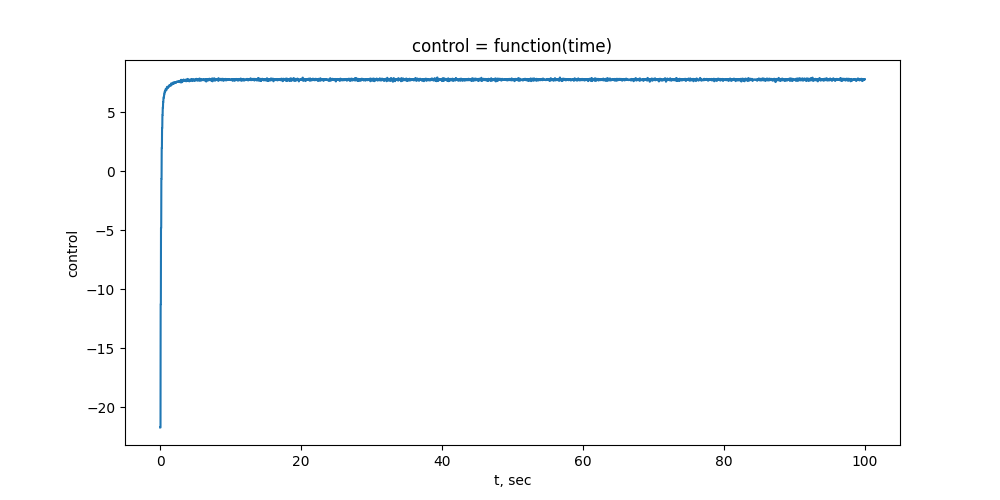
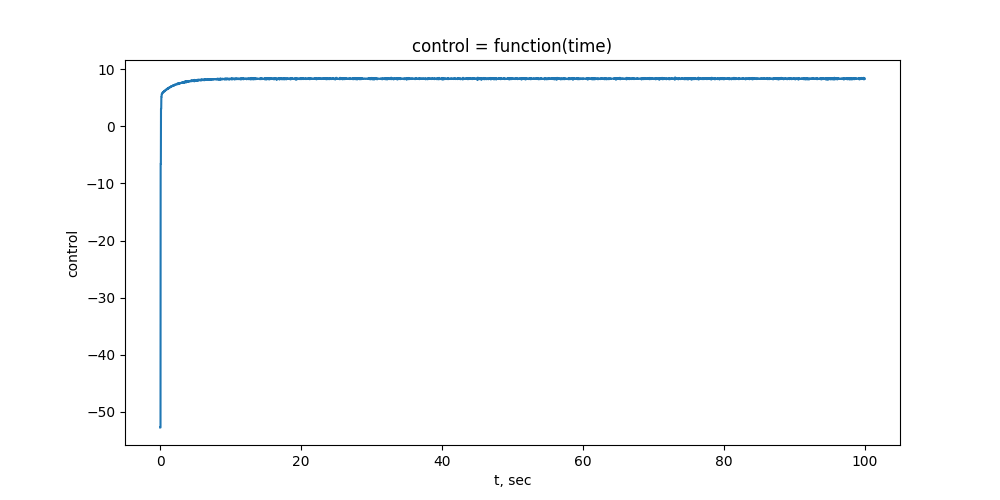
1b corrected

diff --git a/1b/harmonic_pendulum_control.py b/1b/harmonic_pendulum_control.py
@@ -2,13 +2,13 @@ import  matplotlib.pyplot as plt
 from init1b import *
 from rkSolver import RK4Model
 
-def pidControl(yMeas, yRef, kD, kI, kP, dTimeControl, N):
-    [xMeas, derxMeas] = yMeas[-1]
+def pidControl(yMeas, yRef, integrControlPrev, kD, kI, kP, dTimeControl, N):
+    [xMeas, derxMeas] = yMeas
     [xRef, derxRef] = yRef
     control = -kP * (xMeas - xRef) - kD * (derxMeas - derxRef)
-    for i in range(N):
-        control -= kI * (yMeas[i, 0] - yRef[0]) * dTimeControl
-    return control
+    integrControl = integrControlPrev -  kI * (xMeas - xRef) * dTimeControl
+    control += integrControl
+    return control, integrControl
 
 def LyapunovControl(yMeas, yRef, kLl, kLd, m, g, l):
     [xMeas, derxMeas] = yMeas
@@ -29,13 +29,14 @@ def HarmonicPendulum(y0, t, dt, yRef, dtControl, sigma, kP, kI, kD):
     u = np.array([0]*len(t), dtype=float)
 
     yMeas = np.array([np.array([0, 0], dtype= float) for i in range(timeCorrection)])
-
+    integrControlPrev = 0
     for i in range(1, timeCorrection + 1):
-        yMeas[i - 1] = y0 + np.random.normal(0, sigma)
+        normalNoise = np.array([np.random.normal(0, sigma[i]) for i in range(len(sigma))])
+        yMeas[i - 1] = y0 + normalNoise
 
         tRK4 = t[stepCorrection * (i - 1): stepCorrection * i:]
         control = LyapunovControl(yMeas[i - 1], yRef, kLl, kLd, m, g, l)
-        #control = pidControl(yMeas[:i:], yRef, kD, kI, kP, dtControl, i)
+        #control, integrControlPrev = pidControl(yMeas[i - 1], yRef, integrControlPrev, kD, kI, kP, dtControl, i)
         u[stepCorrection * (i - 1): stepCorrection * i:] = np.array([control]*stepCorrection)
         PendulumFunctionControl = lambda x: np.concatenate(([x[1], -g / l * np.sin(x[0]) + control ]), axis=None)
         y[stepCorrection * (i - 1): stepCorrection * i] = RK4Model(y0, tRK4, dt, PendulumFunctionControl)

diff --git a/1a/harmonic_pendulum.py b/1a/harmonic_pendulum.py
@@ -1,5 +1,3 @@
-from shutil import which
-
 import  numpy as np
 import  matplotlib.pyplot as plt
 from init1a import m, l, g, y0, t, dt, PendulumFunction, omega, alpha

diff --git a/1b/init1b.py b/1b/init1b.py
@@ -16,6 +16,6 @@ kI = 1
 kD = 1
 
 kLl = 10
-kLd = 10
+kLd = 20
 dtControl = 5 * dt
 yRef = np.array([np.deg2rad(60), 0.0])
